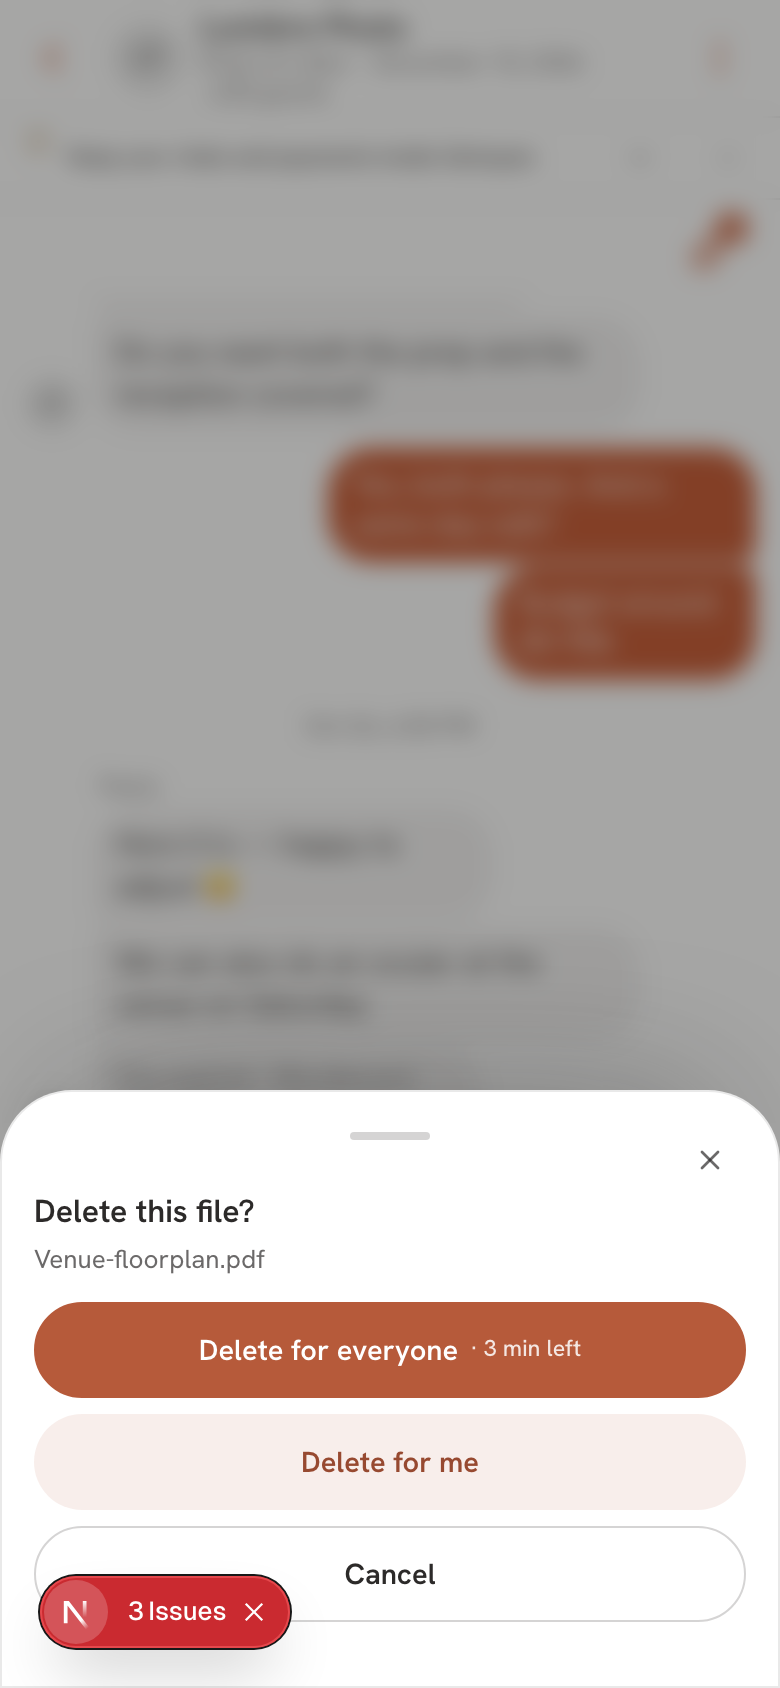
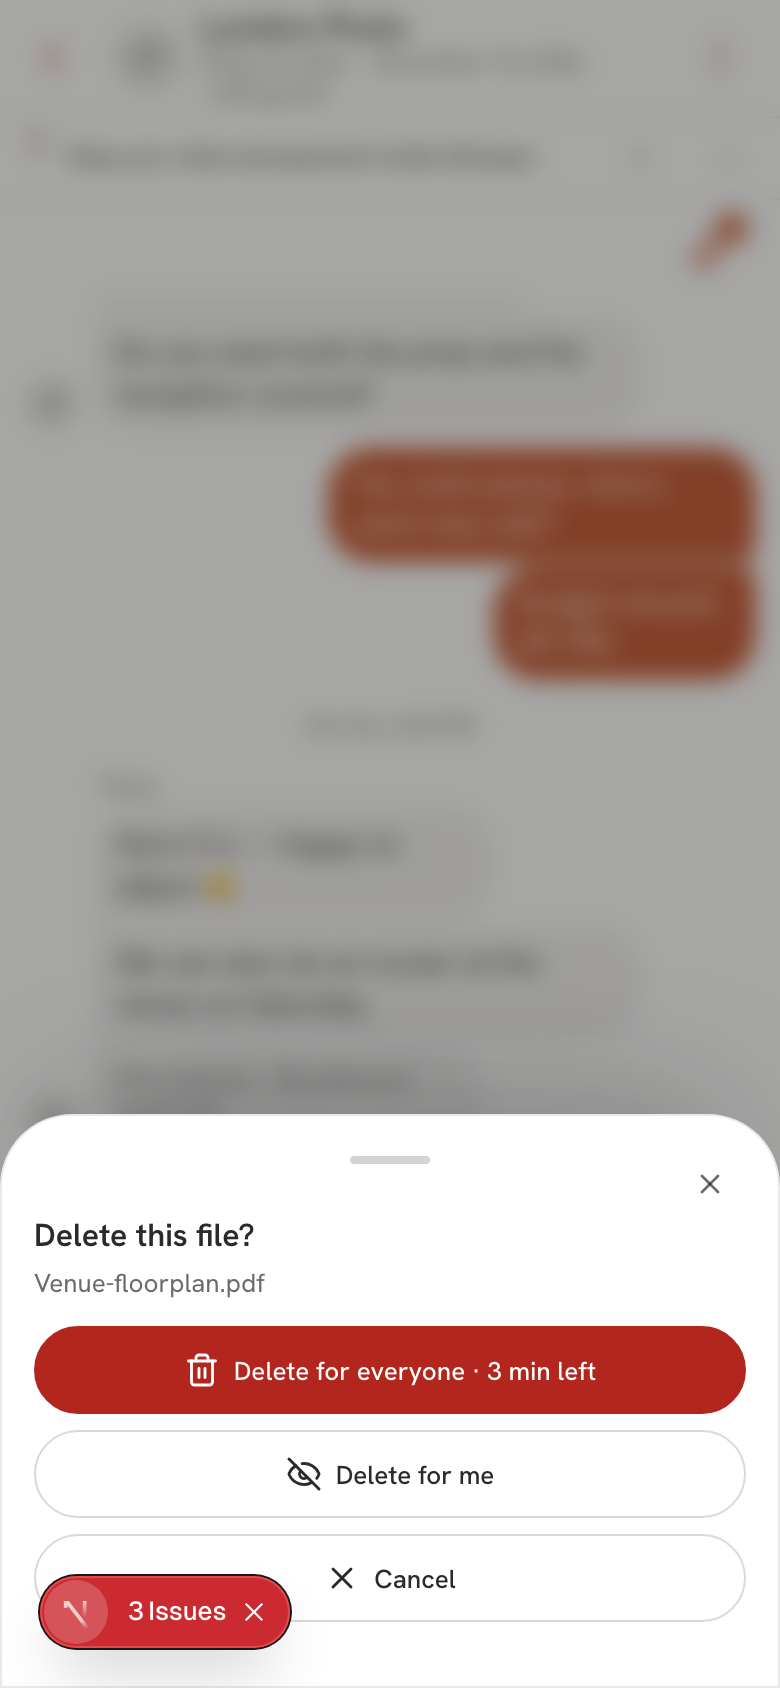
fix(chat): file removal — live on the other side, booking rule is this couple and this shop, danger pill
Controller audit of #7550: the stream drops an undone message on a realtime
DELETE and re-reads the line when an UPDATE clears a file; a booking file is
an order/confirmed booking/dispute between THIS couple and THIS thread's shop
(plus decision, contract, payment-proof and This-booking filings), not any
order on the event; Delete for everyone is ActionButton tone=danger.

Changed region(s): [[0.0308, 0.7085, 0.9538, 0.955], [0.0, 0.6469, 1.0, 0.7085]]

diff --git a/apps/web/tests/db/you-may-remove-your-own-file-from-a-chat.db.test.ts b/apps/web/tests/db/you-may-remove-your-own-file-from-a-chat.db.test.ts
@@ -9,7 +9,8 @@
  *   3. words stay — undo and Delete for everyone clear only the attachment columns;
  *   4. Delete for everyone inside 5 min → the file goes, a for-everyone line both sides can read; after → refused;
  *   5. Delete for me → hidden for the caller only: the other side still reads the file and cannot read the hide;
- *   6. booking files (filed to a decision · an order on the event) refuse undo and everyone; Delete for me still works;
+ *   6. booking files (filed to a decision · an order with THIS shop · the shop confirmed · a dispute between them)
+ *      refuse undo and everyone; Delete for me still works; the couple's own purchase alone is not a booking;
  *   7. the other side's file, a words-only message and an outsider are refused, answered as before;
  *   8. still no DELETE policy on chat_messages.
  *
@@ -24,7 +25,15 @@ import { createReplayedDb, setAuthUid, type ReplayResult } from './replay-migrat
 let replay: ReplayResult;
 let db: PGlite;
 
-const F = { couple: '', vendorUser: '', outsider: '', vendorId: '', eventId: '', threadId: '', orderEventId: '', orderThreadId: '' };
+type Chat = { eventId: string; threadId: string };
+const F = { couple: '', vendorUser: '', outsider: '', vendorId: '', eventId: '', threadId: '' };
+/** Chats whose couple and shop have (or do not have) a booking. */
+const C: Record<'orderWithShop' | 'ownPurchaseOnly' | 'confirmed' | 'disputed', Chat> = {
+  orderWithShop: { eventId: '', threadId: '' },
+  ownPurchaseOnly: { eventId: '', threadId: '' },
+  confirmed: { eventId: '', threadId: '' },
+  disputed: { eventId: '', threadId: '' },
+};
 
 async function setAuthRole(role: string | null): Promise<void> {
   await db.query(`SELECT set_config('request.jwt.claim.role', $1, false)`, [role ?? '']);
@@ -55,10 +64,10 @@ async function createUser(email: string, accountType: 'customer' | 'vendor'): Pr
 async function send(
   asUid: string,
   body: string,
-  opts: { file?: boolean; agoSeconds?: number; thread?: 'main' | 'order' } = {},
+  opts: { file?: boolean; agoSeconds?: number; chat?: Chat } = {},
 ): Promise<string> {
-  const threadId = opts.thread === 'order' ? F.orderThreadId : F.threadId;
-  const eventId = opts.thread === 'order' ? F.orderEventId : F.eventId;
+  const threadId = opts.chat?.threadId ?? F.threadId;
+  const eventId = opts.chat?.eventId ?? F.eventId;
   await asUser(asUid);
   const r = await db.query<{ message_id: string }>(
     `INSERT INTO public.chat_messages (thread_id, event_id, vendor_profile_id, body) VALUES ($1, $2, $3, $4) RETURNING message_id`,
@@ -162,13 +171,32 @@ before(async () => {
   const main = await mkEvent('Remove Test Event');
   F.eventId = main.eventId;
   F.threadId = main.threadId;
-  // A second event that HAS an order — the legal hold makes every file in its chat a booking file.
-  const held = await mkEvent('Remove Test Event With An Order');
-  F.orderEventId = held.eventId;
-  F.orderThreadId = held.threadId;
+  const order = (chat: Chat, ref: string, shop: string | null) =>
+    db.query<{ order_id: string }>(
+      `INSERT INTO public.orders (user_id, event_id, vendor_profile_id, description, requested_total_php, reference_code)
+       VALUES ($1, $2, $3, 'Test order', 1499, $4) RETURNING order_id`,
+      [F.couple, chat.eventId, shop, ref],
+    );
+  // An order WITH this chat's shop → a booking.
+  C.orderWithShop = await mkEvent('Remove Test · order with the shop');
+  await order(C.orderWithShop, 'RMFILE01', F.vendorId);
+  // The couple's own Setnayan purchase, no shop on it → NOT a booking with this supplier.
+  C.ownPurchaseOnly = await mkEvent('Remove Test · own purchase only');
+  await order(C.ownPurchaseOnly, 'RMFILE02', null);
+  // The shop confirmed on the event (contracted) → a booking.
+  C.confirmed = await mkEvent('Remove Test · shop confirmed');
   await db.query(
-    `INSERT INTO public.orders (user_id, event_id, description, requested_total_php, reference_code) VALUES ($1, $2, 'Papic pack', 1499, 'RMFILE01')`,
-    [F.couple, F.orderEventId],
+    `INSERT INTO public.event_vendors (event_id, category, vendor_name, status, linked_vendor_profile_id)
+     VALUES ($1, 'photographer', 'Remove Test Studio', 'contracted'::vendor_status, $2)`,
+    [C.confirmed.eventId, F.vendorId],
+  );
+  // A dispute between this couple and this shop (on an order that does not itself name the shop) → a booking.
+  C.disputed = await mkEvent('Remove Test · disputed');
+  const disputed = await order(C.disputed, 'RMFILE03', null);
+  await db.query(
+    `INSERT INTO public.vendor_disputes (vendor_profile_id, order_id, opened_by_user_id, category, description)
+     VALUES ($1, $2, $3, 'no_show', 'They did not come')`,
+    [F.vendorId, disputed.rows[0]!.order_id, F.couple],
   );
 });
 after(async () => {
@@ -300,13 +328,29 @@ test('6 · a file filed to a decision is a booking file — undo and everyone re
   assert.equal(me.row.outcome, 'hidden_for_me');
 });
 
-test('6b · a file in a chat whose event has an order is a booking file — even the ring cannot delete it', async () => {
-  const mine = await send(F.couple, ' ', { file: true, agoSeconds: 1, thread: 'order' });
-  assert.equal((await options(F.couple, mine)).is_booking, true);
+for (const [name, why] of [
+  ['orderWithShop', 'an order with this shop on the event'],
+  ['confirmed', 'the shop confirmed on the event'],
+  ['disputed', 'a dispute between this couple and this shop'],
+] as const) {
+  test(`6b · ${why} makes the chat's files booking files — even the ring cannot delete them`, async () => {
+    const mine = await send(F.couple, ' ', { file: true, agoSeconds: 1, chat: C[name] });
+    assert.equal((await options(F.couple, mine)).is_booking, true);
+    for (const mode of ['undo', 'everyone'] as const) {
+      const r = await remove(F.couple, mine, mode);
+      assert.equal(r.ok, false, `${mode} went through on a booking file`);
+      assert.match(r.ok ? '' : r.message, /BOOKING_FILE/);
+    }
+    assert.ok((await row(mine))?.attachment_r2_key, 'a booking file was removed');
+  });
+}
+
+test('6c · the couple’s own purchase on the event is NOT a booking with this supplier — undo still deletes', async () => {
+  const mine = await send(F.couple, ' ', { file: true, agoSeconds: 1, chat: C.ownPurchaseOnly });
+  assert.equal((await options(F.couple, mine)).is_booking, false);
   const r = await remove(F.couple, mine, 'undo');
-  assert.equal(r.ok, false);
-  assert.match(r.ok ? '' : r.message, /BOOKING_FILE/);
-  assert.ok(await row(mine), 'the ring hard-deleted a booking file');
+  assert.ok(r.ok, r.ok ? '' : r.message);
+  assert.equal(r.row.outcome, 'deleted');
 });
 
 // ── who may ─────────────────────────────────────────────────────────────────

diff --git a/apps/web/app/_components/chat/chat-file-swipe.tsx b/apps/web/app/_components/chat/chat-file-swipe.tsx
@@ -20,6 +20,8 @@
 import { useEffect, useId, useRef, useState, type ReactNode } from 'react';
 import { SwipeToDelete } from '@/app/_components/swipe-to-delete';
 import { Sheet } from '@/app/_components/sheet';
+import { ActionButton } from '@/components/action-button';
+import { EyeOff, Trash2, X } from 'lucide-react';
 import {
   CHAT_FILE_BOOKING_LINE,
   CHAT_FILE_DELETE_EVERYONE,
@@ -148,35 +150,32 @@ export function ChatFileRemoveSheet({
         <p className="mb-3 mt-0.5 text-[13px] text-ink/70" data-chat-file-remove-why="">
           {line}
         </p>
-        {everyone > 0 ? (
-          <button
-            type="button"
-            onClick={() => onChoose('everyone')}
+        {/* T19 · THE BUTTON RULE: Delete for everyone is the house DANGER pill (destructive, red, filled — the main
+            verb); Delete for me and Cancel are neutral. */}
+        <div className="flex flex-col gap-2">
+          {everyone > 0 ? (
+            <ActionButton
+              tone="danger"
+              main
+              icon={Trash2}
+              label={busy === 'everyone' ? 'Deleting…' : `${CHAT_FILE_DELETE_EVERYONE} · ${everyone} min left`}
+              onClick={() => onChoose('everyone')}
+              disabled={busy !== null}
+              data-chat-file-remove="everyone"
+              className="w-full"
+            />
+          ) : null}
+          <ActionButton
+            tone="neutral"
+            icon={EyeOff}
+            label={busy === 'me' ? 'Deleting…' : CHAT_FILE_DELETE_ME}
+            onClick={() => onChoose('me')}
             disabled={busy !== null}
-            data-chat-file-remove="everyone"
-            className="mt-2 flex min-h-12 w-full items-center justify-center rounded-full border-[1.5px] border-danger-600 bg-danger-600 text-[14.5px] font-semibold text-white dark:border-danger-400 dark:bg-danger-400 disabled:opacity-60"
-          >
-            {busy === 'everyone' ? 'Deleting…' : CHAT_FILE_DELETE_EVERYONE}
-            {busy === 'everyone' ? null : <small className="ml-1.5 font-medium opacity-85">· {everyone} min left</small>}
-          </button>
-        ) : null}
-        <button
-          type="button"
-          onClick={() => onChoose('me')}
-          disabled={busy !== null}
-          data-chat-file-remove="me"
-          className="mt-2 flex min-h-12 w-full items-center justify-center rounded-full border-[1.5px] border-transparent bg-danger-600/10 text-[14.5px] font-semibold text-danger-700 disabled:opacity-60 dark:text-danger-200"
-        >
-          {busy === 'me' ? 'Deleting…' : CHAT_FILE_DELETE_ME}
-        </button>
-        <button
-          type="button"
-          onClick={onClose}
-          data-chat-file-remove="cancel"
-          className="mt-2 flex min-h-12 w-full items-center justify-center rounded-full border-[1.5px] border-ink/20 text-[14.5px] font-semibold text-ink"
-        >
-          Cancel
-        </button>
+            data-chat-file-remove="me"
+            className="w-full"
+          />
+          <ActionButton tone="neutral" icon={X} label="Cancel" onClick={onClose} data-chat-file-remove="cancel" className="w-full" />
+        </div>
       </div>
     </Sheet>
   );

diff --git a/apps/web/app/_components/chat/your-own-file-swipes-away.test.ts b/apps/web/app/_components/chat/your-own-file-swipes-away.test.ts
@@ -13,7 +13,9 @@ import {
   CHAT_FILE_BOOKING_LINE,
   CHAT_FILE_REMOVE_FAILED,
   everyoneMinutesLeft,
+  fileLeftMessage,
   refusalFromError,
+  withoutDeletedMessage,
   removedForEveryoneLine,
   undoSecondsLeft,
 } from '@/lib/chat-file-removal';
@@ -120,4 +122,35 @@ test('the route lets the DATABASE decide, then drops only an object under the ca
   assert.doesNotMatch(del, /\br2Delete\b/);
   const get = r.slice(r.indexOf('export async function GET('), r.indexOf('export async function DELETE('));
   assert.match(get, /supabase\.rpc\('chat_file_removal_options', \{ p_message_id: messageId \}\)/);
+});
+
+test('the OTHER side sees it go live — a DELETE drops only this chat’s message, an UPDATE that clears the file re-reads the line', () => {
+  const msgs = [{ message_id: 'a' }, { message_id: 'b' }];
+  assert.deepEqual(withoutDeletedMessage(msgs, { message_id: 'a' }), [{ message_id: 'b' }]);
+  assert.equal(withoutDeletedMessage(msgs, { message_id: 'from-another-chat' }), msgs, 'another chat’s delete re-rendered this one');
+  assert.equal(withoutDeletedMessage(msgs, null), msgs);
+  const withFile = { message_id: 'a', attachment_r2_key: 'r2://x' };
+  assert.equal(fileLeftMessage(withFile, { message_id: 'a', attachment_r2_key: null }), true);
+  assert.equal(fileLeftMessage({ message_id: 'a' }, { message_id: 'a' }), false, 'a words-only update is not a removal');
+  assert.equal(fileLeftMessage(undefined, { message_id: 'a' }), false);
+
+  const s = read('app/_components/chat-message-stream.tsx');
+  assert.match(
+    s,
+    /\{ event: 'DELETE', schema: 'public', table: 'chat_messages' \},\s*\(payload\) => setMessages\(\(prev\) => withoutDeletedMessage\(prev, payload\.old/,
+    'the stream stopped dropping a message its sender undid',
+  );
+  const update = s.slice(s.indexOf("event: 'UPDATE',"), s.indexOf("event: 'DELETE'"));
+  assert.match(update, /table: 'chat_messages'/);
+  assert.match(update, /fileLeftMessage\(messagesRef\.current\.find\(.*\), row\)\) void refetchRemovals\(\)/);
+  assert.match(update, /prev\.map\(\(m\) => \(m\.message_id === row\.message_id \? row : m\)\)/, 'the cleared row stopped replacing the bubble');
+});
+
+test('Delete for everyone is the house DANGER pill; Delete for me and Cancel are neutral (T19)', () => {
+  const src = read('app/_components/chat/chat-file-swipe.tsx');
+  const sheet = src.slice(src.indexOf('export function ChatFileRemoveSheet'), src.indexOf('// ── 3 · the wired bubble'));
+  assert.match(sheet, /<ActionButton\s+tone="danger"\s+main\s+icon=\{Trash2\}[^]*?data-chat-file-remove="everyone"/);
+  assert.match(sheet, /<ActionButton\s+tone="neutral"\s+icon=\{EyeOff\}[^]*?data-chat-file-remove="me"/);
+  assert.match(sheet, /<ActionButton tone="neutral" icon=\{X\} label="Cancel"/);
+  assert.doesNotMatch(sheet, /terracotta|sn-accent|bg-danger|<button/, 'a hand-drawn button instead of the house pill');
 });

diff --git a/apps/web/app/_components/chat-message-stream.tsx b/apps/web/app/_components/chat-message-stream.tsx
@@ -131,7 +131,9 @@ import { MaybeChatFileSwipe, routeRemoveIO, type ChatFileRemoveIO, type ChatFile
 import {
   CHAT_FILE_REMOVED_FOR_ME,
   CHAT_FILE_REMOVED_UNKNOWN,
+  fileLeftMessage,
   removedForEveryoneLine,
+  withoutDeletedMessage,
 } from '@/lib/chat-file-removal';
 import { loadOpenFilings, type Filing, type OpenDecisionTopic } from '@/lib/chat-decisions';
 import { ChatPinnedStack } from './chat/chat-pinned-stack';
@@ -1333,14 +1335,21 @@ export function ChatMessageStream({
               return;
             }
             const row = payload.new as ChatMessageRow;
-            // 👈 A file just left a message (its sender removed it) → re-read who removed it, for the line.
-            const before = messagesRef.current.find((m) => m.message_id === row.message_id);
-            if (before && (before.attachment_r2_key || before.attachment_url) && !row.attachment_r2_key && !row.attachment_url)
-              void refetchRemovals();
+            // 👈 A file just left a message (its sender removed it, for everyone or by undo with words): the bubble loses
+            // it with this row, and the line saying who comes from a re-read of the removals.
+            if (fileLeftMessage(messagesRef.current.find((m) => m.message_id === row.message_id), row)) void refetchRemovals();
             setMessages((prev) =>
               prev.map((m) => (m.message_id === row.message_id ? row : m)),
             );
           },
+        )
+        // 👈 THE RING'S UNDO, LIVE ON THE OTHER SIDE (2026-11-13 "deleted at once for both"): a file sent with no words is
+        // deleted outright. Postgres Changes cannot filter a DELETE and sends only the primary key, so this listens
+        // unfiltered and drops the id only if it is one of THIS stream's messages (`withoutDeletedMessage`).
+        .on(
+          'postgres_changes',
+          { event: 'DELETE', schema: 'public', table: 'chat_messages' },
+          (payload) => setMessages((prev) => withoutDeletedMessage(prev, payload.old as { message_id?: unknown })),
         )
         // ♥ THE SECOND .on() — hearts on this thread, on the SAME channel (THE ONE BUILD; no new connection).
         .on(

diff --git a/apps/web/lib/chat-file-removal.ts b/apps/web/lib/chat-file-removal.ts
@@ -52,3 +52,23 @@ export function refusalFromError(message: string | null | undefined): ChatFileRe
   if (/WINDOW_CLOSED/.test(m)) return 'window';
   return 'refused';
 }
+
+// ── the OTHER side, live (controller audit 13 Nov: "deleted at once for both") ──────────────────────────────────
+
+type FileCols = { message_id: string; attachment_r2_key?: string | null; attachment_url?: string | null };
+
+/** An UPDATE where the file left the message (its sender removed it): re-read the removal lines. */
+export function fileLeftMessage(before: FileCols | undefined, after: FileCols): boolean {
+  return !!before && !!(before.attachment_r2_key || before.attachment_url) && !after.attachment_r2_key && !after.attachment_url;
+}
+
+/**
+ * A realtime DELETE (the ring's undo of a file sent with no words). Postgres Changes cannot filter a DELETE by thread
+ * and sends only the primary key, so the stream drops the id ONLY if it is one of its own messages — an id from another
+ * chat changes nothing (and the same array comes back, so nothing re-renders).
+ */
+export function withoutDeletedMessage<T extends { message_id: string }>(prev: T[], old: { message_id?: unknown } | null | undefined): T[] {
+  const id = typeof old?.message_id === 'string' ? old.message_id : null;
+  if (!id || !prev.some((m) => m.message_id === id)) return prev;
+  return prev.filter((m) => m.message_id !== id);
+}

diff --git a/changelog.d/chat-file-undo-ring.md b/changelog.d/chat-file-undo-ring.md
@@ -12,11 +12,15 @@ AT ONCE ON SEND…" + "CHAT FILE UNDO DRAWING APPROVED"), replacing the PR's ear
   Try again."
 - **Server** (migration `20271341904583`, edited in place — never on main): `remove_my_chat_file(message_id, mode)`
   enforces undo ≤10 s (+5 s grace), everyone ≤5 min (+30 s grace) on the row's created_at, refuses booking files
-  (`chat_message_is_booking_file`: decision cards/filings, "This booking" filings, payment proofs, contracts, an order
-  on the event) for undo and everyone, and keeps the words (only the attachment columns clear). New
+  (`chat_message_is_booking_file`: decision cards/filings, "This booking" filings, payment proofs, contracts, or a
+  booking between THIS couple and THIS chat's shop — an order naming the shop, the shop confirmed on the event, or a
+  dispute between them; the couple's own purchase alone is not one) for undo and everyone, and keeps the words (only the attachment columns clear). New
   `chat_file_removals` (RLS at create; own rows + for-everyone rows to whoever reads the message) carries "… removed a
   file · time" and the per-viewer hide. `chat_file_removal_options` feeds the sheet. Route
   `DELETE /api/chat/attachment/[id]?mode=…` · `GET …?removal=options`. Exposure baseline regenerated.
+- **Live on the other side**: the stream drops a message whose row is deleted (an unfiltered DELETE listener matched
+  against its own ids — Postgres Changes cannot filter a DELETE) and re-reads the removal line when an UPDATE clears a
+  file. Delete for everyone is the house DANGER pill (`ActionButton tone="danger"`); Delete for me and Cancel neutral.
 - Lab: `/dev/chat-lab/t/<id>?file=ring|sheet|late|booking`.
 
 SPEC IMPACT: None — the corpus already carries the 2026-11-13 rows.
